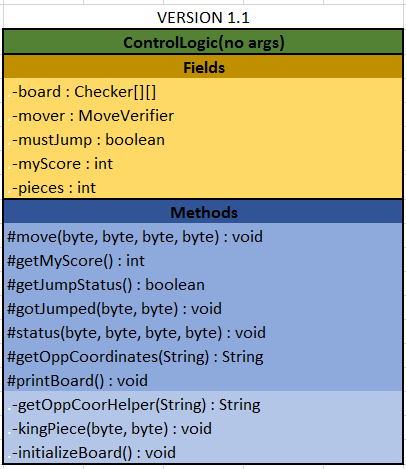
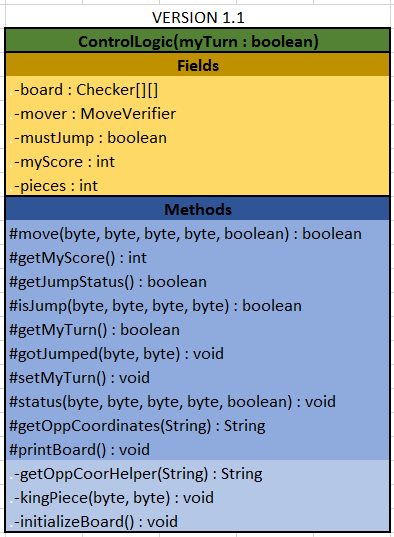
UML Update & ControlUnit Tweak

diff --git a/ControlUnit.java b/ControlUnit.java
@@ -1,10 +1,8 @@
 /**
 *This class is the main class in the back end of the checkers game. It Implements ControlLogic and TransmitData. It also inherits from Thread.
-*@version 1.0
+*@version 1.1
 *@author Dan Martineau
 */
-
-import java.util.concurrent.TimeUnit;
 
 public class ControlUnit extends Thread
 {
@@ -27,7 +25,7 @@ public class ControlUnit extends Thread
 		network = new TransmitData(ip);
 		myScore = 0;
 		mustJump = false;
-		
+
 		//makes sure that TransmitData is fully initialized so that our data will be accurate
 		do
 		{
@@ -35,13 +33,13 @@ public class ControlUnit extends Thread
 			oppID = network.getOppID();
 			engaged = network.engagementStatus();
 		}while(!network.initialized());
-		
+
 		//decide who begins
 		if(oppID == null || Integer.parseInt(network.getMyID()) < Integer.parseInt(network.getOppID()))
 			control = new ControlLogic(true);
 		else
 			control = new ControlLogic(false);
-		
+
 		//begin thread
 		start();
 	}
@@ -127,21 +125,22 @@ public class ControlUnit extends Thread
 		{
 			try
 			{
-				//check for incoming data 
+				//check for incoming data
 				hold = network.getData();
 			}
 			catch(Exception e)
 			{
-				System.out.println("There's been an exception recieving network data in ControlUnit.");
+				System.out.println("There's been an exception recieving network data in ControlUnit: " + e);
+				System.exit(0);
 			}
-			
+
 			//decode revieved String if it is not a repeat of a command
 			if(hold != null && (!hold.equals(prevString)))
 			{
 				prevString = hold;
 				decode(hold);
 			}
-			
+
 			//make sure we have opponent
 			network.engagementStatus();
 
@@ -155,7 +154,7 @@ public class ControlUnit extends Thread
 	*@param recieved String
 	*/
 	private void decode(String data)
-	{	
+	{
 		//ensure data was intended for client
 		if(data==null || data.length() < 6 || !(data.substring(0,1).equals("c")))
 			return;
